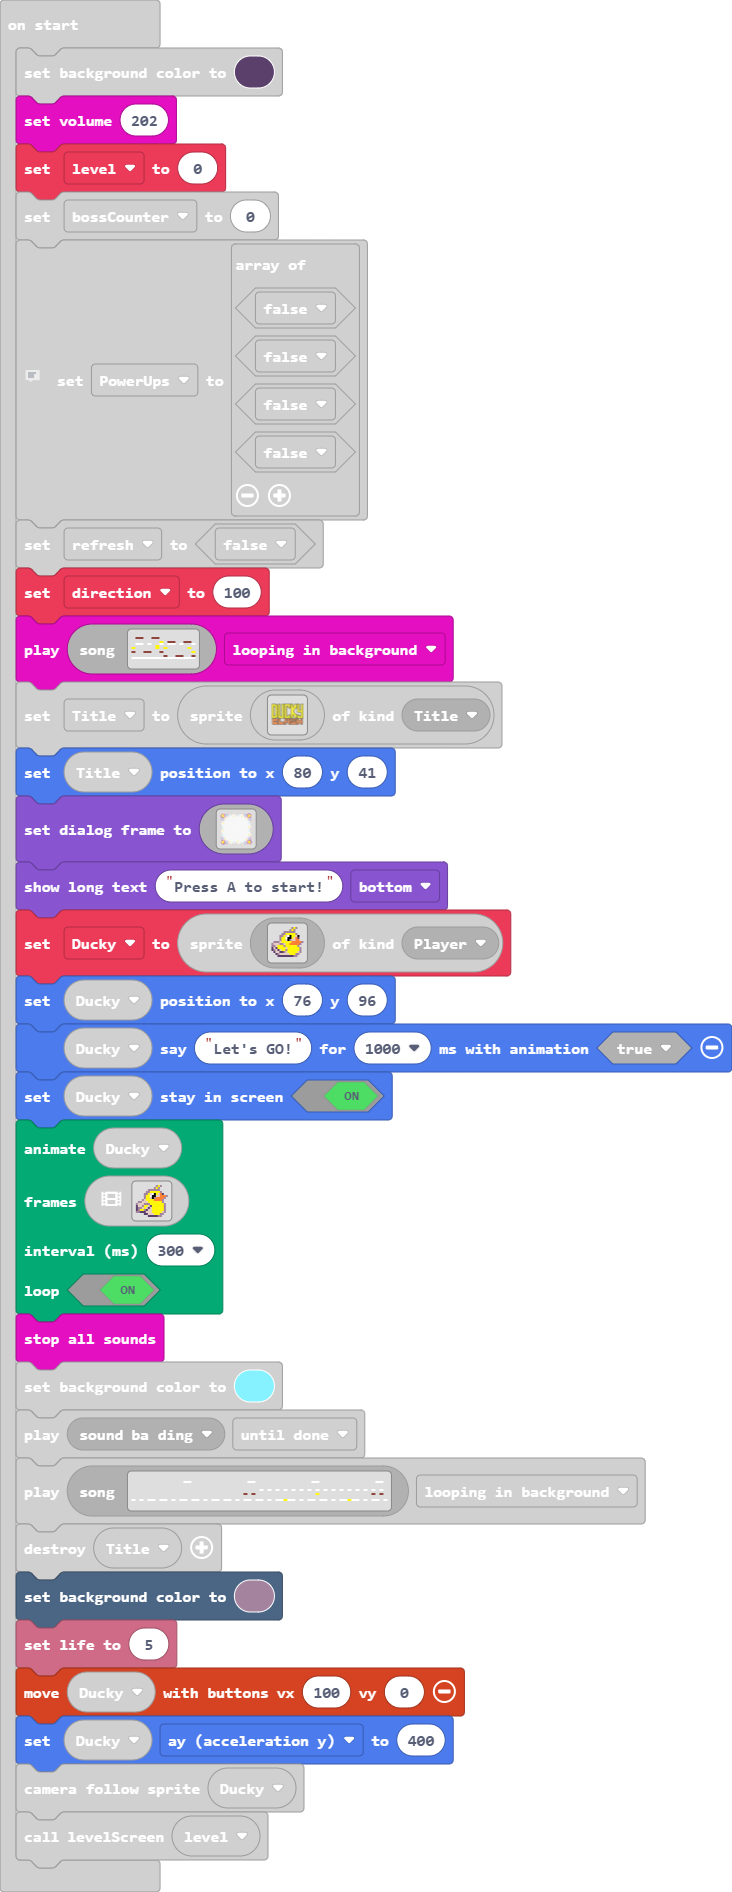
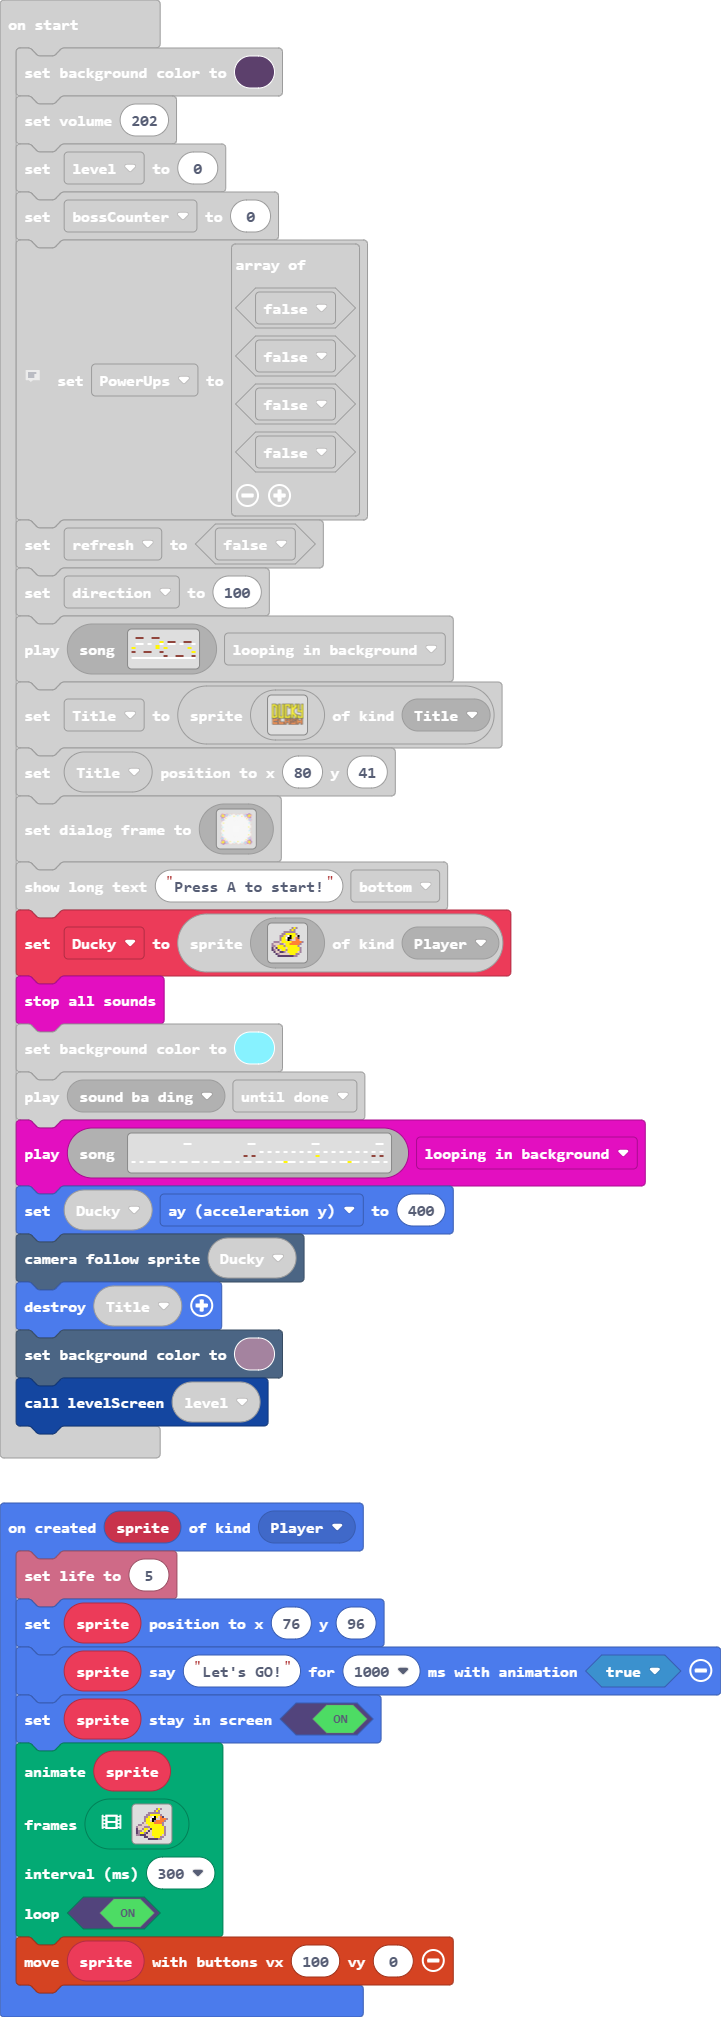
Update main.blocks, main.ts

diff --git a/main.ts b/main.ts
@@ -1585,6 +1585,53 @@ sprites.onOverlap(SpriteKind.Projectile, SpriteKind.Enemy, function (sprite, oth
     true
     )
 })
+sprites.onCreated(SpriteKind.Player, function (sprite) {
+    info.setLife(5)
+    sprite.setPosition(76, 96)
+    sprite.sayText("Let's GO!", 1000, true)
+    sprite.setStayInScreen(true)
+    animation.runImageAnimation(
+    sprite,
+    [img`
+        . . . . . . . . . . b 5 b . . . 
+        . . . . . . . . . b 5 b . . . . 
+        . . . . . . b b b b b b . . . . 
+        . . . . . b b 5 5 5 5 5 b . . . 
+        . . . . b b 5 d 1 f 5 d 4 c . . 
+        . . . . b 5 5 1 f f d d 4 4 4 b 
+        . . . . b 5 5 d f b 4 4 4 4 b . 
+        . . . b d 5 5 5 5 4 4 4 4 b . . 
+        . b b d d d 5 5 5 5 5 5 5 b . . 
+        b d d d b b b 5 5 5 5 5 5 5 b . 
+        c d d b 5 5 d c 5 5 5 5 5 5 b . 
+        c b b d 5 d c d 5 5 5 5 5 5 b . 
+        c b 5 5 b c d d 5 5 5 5 5 5 b . 
+        b b c c c d d d 5 5 5 5 5 d b . 
+        . . . . c c d d d 5 5 5 b b . . 
+        . . . . . . c c c c c b b . . . 
+        `,img`
+        . . . . . . . . . . b 5 b . . . 
+        . . . . . . . . . b 5 b . . . . 
+        . . . . . . b b b b b b . . . . 
+        . . . . . b b 5 5 5 5 5 b . . . 
+        . . . . b b 5 d 1 f 5 5 d f . . 
+        . . . . b 5 5 1 f f 5 d 4 c . . 
+        . . . . b 5 5 d f b d d 4 4 . . 
+        . b b b d 5 5 5 5 5 4 4 4 4 4 b 
+        b d d d b b d 5 5 4 4 4 4 4 b . 
+        b b d 5 5 5 b 5 5 5 5 5 5 b . . 
+        c d c 5 5 5 5 d 5 5 5 5 5 5 b . 
+        c b d c d 5 5 b 5 5 5 5 5 5 b . 
+        . c d d c c b d 5 5 5 5 5 d b . 
+        . . c d d d d d 5 5 5 5 5 b . . 
+        . . . b d d d d d 5 5 5 b . . . 
+        . . . c c c c c c c c b b . . . 
+        `],
+    300,
+    true
+    )
+    controller.moveSprite(sprite, 100, 0)
+})
 scene.onOverlapTile(SpriteKind.Enemy, assets.tile`bottom door`, function (sprite, location) {
     sprites.destroy(sprite)
 })
@@ -1797,59 +1844,14 @@ Ducky = sprites.create(img`
     . . . c c c c c c c c b b . . . 
     . . . . . . . . . . . . . . . . 
     `, SpriteKind.Player)
-Ducky.setPosition(76, 96)
-Ducky.sayText("Let's GO!", 1000, true)
-Ducky.setStayInScreen(true)
-animation.runImageAnimation(
-Ducky,
-[img`
-    . . . . . . . . . . b 5 b . . . 
-    . . . . . . . . . b 5 b . . . . 
-    . . . . . . b b b b b b . . . . 
-    . . . . . b b 5 5 5 5 5 b . . . 
-    . . . . b b 5 d 1 f 5 d 4 c . . 
-    . . . . b 5 5 1 f f d d 4 4 4 b 
-    . . . . b 5 5 d f b 4 4 4 4 b . 
-    . . . b d 5 5 5 5 4 4 4 4 b . . 
-    . b b d d d 5 5 5 5 5 5 5 b . . 
-    b d d d b b b 5 5 5 5 5 5 5 b . 
-    c d d b 5 5 d c 5 5 5 5 5 5 b . 
-    c b b d 5 d c d 5 5 5 5 5 5 b . 
-    c b 5 5 b c d d 5 5 5 5 5 5 b . 
-    b b c c c d d d 5 5 5 5 5 d b . 
-    . . . . c c d d d 5 5 5 b b . . 
-    . . . . . . c c c c c b b . . . 
-    `,img`
-    . . . . . . . . . . b 5 b . . . 
-    . . . . . . . . . b 5 b . . . . 
-    . . . . . . b b b b b b . . . . 
-    . . . . . b b 5 5 5 5 5 b . . . 
-    . . . . b b 5 d 1 f 5 5 d f . . 
-    . . . . b 5 5 1 f f 5 d 4 c . . 
-    . . . . b 5 5 d f b d d 4 4 . . 
-    . b b b d 5 5 5 5 5 4 4 4 4 4 b 
-    b d d d b b d 5 5 4 4 4 4 4 b . 
-    b b d 5 5 5 b 5 5 5 5 5 5 b . . 
-    c d c 5 5 5 5 d 5 5 5 5 5 5 b . 
-    c b d c d 5 5 b 5 5 5 5 5 5 b . 
-    . c d d c c b d 5 5 5 5 5 d b . 
-    . . c d d d d d 5 5 5 5 5 b . . 
-    . . . b d d d d d 5 5 5 b . . . 
-    . . . c c c c c c c c b b . . . 
-    `],
-300,
-true
-)
 music.stopAllSounds()
 scene.setBackgroundColor(9)
 music.play(music.melodyPlayable(music.baDing), music.PlaybackMode.UntilDone)
 music.play(music.createSong(assets.song`JERSEY`), music.PlaybackMode.LoopingInBackground)
-sprites.destroy(Title)
-scene.setBackgroundColor(11)
-info.setLife(5)
-controller.moveSprite(Ducky, 100, 0)
 Ducky.ay = 400
 scene.cameraFollowSprite(Ducky)
+sprites.destroy(Title)
+scene.setBackgroundColor(11)
 levelScreen(level)
 game.onUpdateInterval(1500, function () {
     if (level >= 1 || (0 as any) == (true as any)) {
